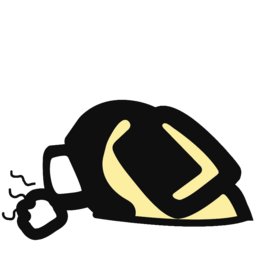
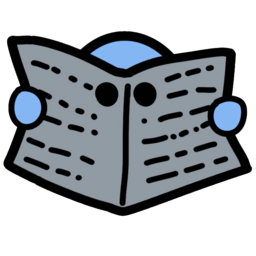
The list of what I did is in Plugin.cs
Still just have jack of all assassin not working right. :D

diff --git a/JAM/Roles/Crewmate/MicromanagerRole.cs b/JAM/Roles/Crewmate/MicromanagerRole.cs
@@ -128,7 +128,7 @@ public sealed class MicromanagerRole(IntPtr cppPtr) : CrewmateGhostRole(cppPtr),
             return false;
         }
 
-        if (opts.MicromanagerCanBeClickedBy == MicromanagerRoleClickableType.NonCrew && PlayerControl.LocalPlayer.Data.Role.IsCrewmate())
+        if (opts.MicromanagerCanBeClickedBy == MicromanagerRoleClickableType.NonCrew && PlayerControl.LocalPlayer.IsCrewmate())
         {
             return false;
         }
@@ -242,7 +242,7 @@ public sealed class MicromanagerRole(IntPtr cppPtr) : CrewmateGhostRole(cppPtr),
         }
 
         var crewPlayers = PlayerControl.AllPlayerControls.ToArray().Where(x => 
-            x && x != Player && x.Data != null && x.IsCrewmate() &&
+            x && x != Player && x.Data != null && x.IsCrewmate() && !x.HasModifier<AllianceGameModifier>() &&
                 opts.MicromanagerManagesCrewTasks switch
                 {
                     MicromanagerRoleCrewType.AliveCrew => !x.Data.IsDead,
@@ -283,8 +283,6 @@ public sealed class MicromanagerRole(IntPtr cppPtr) : CrewmateGhostRole(cppPtr),
 
         HudManager.Instance.ShowTaskComplete();
 
-        RpcCompleteTask(randomCrew, randomTask.Id);
-
         var sb = new StringBuilder();
         randomTask.AppendTaskText(sb);
 
@@ -301,8 +299,10 @@ public sealed class MicromanagerRole(IntPtr cppPtr) : CrewmateGhostRole(cppPtr),
 
         notif.AdjustNotification();
 
+
+        RpcCompleteTask(randomCrew, randomTask.Id, taskText);
         var targetMessage =
-            $"<b>{microColor.ToTextColor()}The Micromanager completed the</color> {TownOfUsColors.Doomsayer.ToTextColor()}{taskText} </color>{microColor.ToTextColor()}task for you.</color></b>";
+            $"<b>{microColor.ToTextColor()}The Micromanager completed the</color> {TownOfUsColors.Doomsayer.ToTextColor()}{taskText}</color>{microColor.ToTextColor()}task for you.</color></b>";
     }
 
     public override void Initialize(PlayerControl player)
@@ -531,13 +531,11 @@ public sealed class MicromanagerRole(IntPtr cppPtr) : CrewmateGhostRole(cppPtr),
     }
 
     [MethodRpc((uint) JAMRpcCalls.MicromanageTask)]
-    public static void RpcCompleteTask(PlayerControl player, uint taskId)
+    public static void RpcCompleteTask(PlayerControl player, uint taskId, string taskName)
     {
         if (player.AmOwner)
         {
             player.RpcCompleteTask(taskId);
-
-            string taskName = player.Data.FindTaskById(taskId)?.ToString() ?? "Null";
 
             Helpers.CreateAndShowNotification(
                 $"<b>{Colors.Micromanager.ToTextColor()}Your {TownOfUsColors.Doomsayer.ToTextColor()}{taskName}</color> Task Was Completed By The {Colors.Micromanager.ToTextColor()}Micromanager</color>. </color></b>",
@@ -553,7 +551,6 @@ public sealed class MicromanagerRole(IntPtr cppPtr) : CrewmateGhostRole(cppPtr),
     {
         public static void Postfix(ref List<RoleTypes> ___CrewmateGhostRolePool)
         {
-            Info("Meep Moop");
             ___CrewmateGhostRolePool.RemoveAll(x => x == (RoleTypes)RoleId.Get<MicromanagerRole>());
         }
     }

diff --git a/JAM/Modifiers/ConcealedModifier.cs b/JAM/Modifiers/ConcealedModifier.cs
@@ -10,6 +10,7 @@ using TownOfUs.Modifiers;
 using TownOfUs.Modifiers.Game;
 using TownOfUs.Modifiers.Game.Universal;
 using TownOfUs.Modules.Wiki;
+using TownOfUs.Options.Maps;
 using TownOfUs.Utilities;
 using TownOfUs.Utilities.Appearances;
 using UnityEngine;
@@ -23,8 +24,7 @@ public sealed class ConcealedModifier : UniversalGameModifier, IWikiDiscoverable
     public override string ModifierName => "Concealed";
      
     public override string IntroInfo => "You Are Harder To See";
-
-     
+    
     public override string GetDescription()
     {
         return "You Are Slightly Less Opaque";
@@ -45,7 +45,18 @@ public sealed class ConcealedModifier : UniversalGameModifier, IWikiDiscoverable
      
     public override bool IsModifierValidOn(RoleBehaviour role)
     {
-        return !role.CanVent && base.IsModifierValidOn(role);
+        return base.IsModifierValidOn(role) && !role.Player.HasModifier<ShyModifier>();
+    }
+    [HarmonyPatch(typeof(ShyModifier), nameof(ShyModifier.IsModifierValidOn))]
+    public static class MakeShyExclusive
+    {
+        public static void Postfix(RoleBehaviour role, ref bool __result)
+        {
+            if (role.Player.HasModifier<ConcealedModifier>())
+            {
+                __result = false;
+            }
+        }
     }
 
     public override ModifierUiConfiguration Configuration
@@ -76,13 +87,29 @@ public sealed class ConcealedModifier : UniversalGameModifier, IWikiDiscoverable
     {
         base.Update();
 
-        if (!Player.Data.IsDead)
+        bool commsActive;
+
+        switch ((ExpandedMapNames)GameOptionsManager.Instance.currentGameOptions.MapId)
+        {
+            case ExpandedMapNames.MiraHq:
+            case ExpandedMapNames.Fungle:
+                var hqComms = ShipStatus.Instance.Systems[SystemTypes.Comms]
+                    .Cast<HqHudSystemType>();
+
+                commsActive = hqComms.IsActive;
+                break;
+
+            default:
+                var hudComms = ShipStatus.Instance.Systems[SystemTypes.Comms]
+                    .Cast<HudOverrideSystemType>();
+
+                commsActive = hudComms.IsActive;
+                break;
+        }
+
+        if (!Player.Data.IsDead && !(commsActive && TownOfUsMapOptions.IsCamoCommsOn()))
         {
             ShyModifier.SetVisibility(Player, OptionGroupSingleton<ConcealedOptions>.Instance.ConcealedOpacity);
-        }
-        else
-        {
-            ShyModifier.SetVisibility(Player, 1, OptionGroupSingleton<ConcealedOptions>.Instance.ConcealName);
         }
     }
 }

diff --git a/JAM/Modifiers/Role Modifiers/DeceiverShieldModifiers.cs b/JAM/Modifiers/Role Modifiers/DeceiverShieldModifiers.cs
@@ -1,4 +1,5 @@
 using HarmonyLib;
+using Il2CppSystem.Web.Util;
 using MiraAPI.Modifiers;
 using MiraAPI.Translation;
 using MiraAPI.Utilities.Assets;
@@ -42,40 +43,12 @@ public sealed class DeceiverMedicShield : BaseShieldModifier, IAnimated
     public override void Update()
     {
         Shield.SetActive(!Player.Data.IsDead);
-    }
-}
 
-public sealed class DeceiverWardenShield : BaseShieldModifier, IAnimated
-{
-    public override string ModifierName => "Fortified";
-    public override string ShieldDescription => "You are fortified by a Warden!\nNo one can interact with you.";
-    public override LoadableAsset<Sprite>? ModifierIcon => TouRoleIcons.Warden;
-    public override bool HideOnUi => false;
-    public override Color FreeplayFileColor => new Color32(100, 220, 100, byte.MaxValue);
-    public GameObject Shield { get; set; }
-    public bool IsVisible { get; set; } = true;
-    public void SetVisible()
-    {
-    }
-    public override void OnActivate()
-    {
-        Shield = AnimStore.SpawnAnimBody(base.Player, TouAssets.WardenFort.LoadAsset(), false, -1.1f, -0.1f, 1.5f);
-    }
-    public override void OnDeath(DeathReason reason)
-    {
-        base.OnDeath(reason);
-        Shield?.SetActive(false);
-        ModifierComponent?.RemoveModifier(this);
-    }
-    public override void OnDeactivate()
-    {
-        if (Shield != null)
+        DeceiverRole.confuseRole = false;
+        if(!MiraAPI.Utilities.Helpers.GetAlivePlayers().Any(p => p.Data.Role is DeceiverRole))
         {
-            Shield.Destroy();
+            ModifierComponent.RemoveModifier(this);
         }
-    }
-    public override void Update()
-    {
-        Shield.SetActive(!Player.Data.IsDead);
+        DeceiverRole.ReConfuse();
     }
 }

diff --git a/JAM/Plugin.cs b/JAM/Plugin.cs
@@ -80,23 +80,25 @@ public enum JAMRpcCalls : uint
     MicromanageTask = 2
 }
 
+// Jack Of All assassin continues game even when all crew
+
+// Concealed looks odd... (icon in-game)
+
 // =============== FIXES ===============
 /*
- * Added Fake Shield Ability To Deceiver
- * Bounty Target No Longer Shows Up In Win/Loss Screen
- * Removed Zombie Alliance Modifier
- * Bounty Reward Modifier No Longer Shows Up In The Wiki
- * Made Bounty Target Modifier Hidden
- * Zombies No Longer Win With Crew Without The Alliance Modifier
- * Fixed Role Option Description Text (RoleMedDescription) For Roles
- * Changed Micromanager To Use An RPC Call Instead Of A Modifier
- * Made This Mod's Neutrals Win/Lose Correctly When Dead
- * Added Concealed Modifier
- * Gave Bounty Target A Speed Boost
- * Adjusted Micromanager To Work Better
- * Fixed Bounty Reveal Modifier
- * Made it so 100% on Bounty Rewards Works Correctly
- * Micromanager No Longer Spawns On Crewmate Death
- * Jack Of All Can No Longer Get Circumvent
- * Added Custom Intro Sounds For Jack Of All and Time Keeper
+ * Fixed Bounty Target Speed Modifier
+ * Fixed Concealed Options Appearance
+ * Micromanager Can No Longer Manager Alliance Modified Crew
+ * Zombies Can No Longer Call Meetings
+ * Zombie Leader Is Now Guessable Until Final 3
+ * Made Concealed And Shy Mutually Exclusive
+ * You Are No Longer Concealed During Camo Comms
+ * Adjusted Wording In Bounty Hunter Options
+ * Micromanager Task Completion Names Look Right
+ * Changed Gossip Sprite
+ * Slighty Brightened Bounty Hunter's Color
+ * Deceiver Shield Goes Away When Deceiver Is Dead Now
+ * Changed Bounty Hunter Sprite
+ * Dead no longer get bounty hunting button
+ * Removed Warden Shield From Deceiver Shields
 */

diff --git a/JAM/Roles/Neutral/ZombieRoles.cs b/JAM/Roles/Neutral/ZombieRoles.cs
@@ -87,6 +87,7 @@ public class ZombieRole(IntPtr cppPtr) : NeutralRole(cppPtr), ITownOfUsRole, IWi
         }
 
         Player.RpcAddModifier<ZombieRevealedModifier>();
+        Player.RemainingEmergencies = 0;
     }
 
     public bool WinConditionMet()
@@ -196,7 +197,7 @@ public sealed class ZombieLeaderRole(IntPtr cppPtr) : NeutralRole(cppPtr), ITown
     public Color RoleColor => Colors.Zombie;
     public ModdedRoleTeams Team => ModdedRoleTeams.Custom;
     public RoleBehaviour AppearAs => (RoleBehaviour)RoleId.Get<ZombieLeaderRole>();
-    public bool IsGuessable => PlayerControl.LocalPlayer != null && PlayerControl.LocalPlayer.Data.Role is VigilanteRole;
+    public bool IsGuessable => Helpers.GetAlivePlayers().Count > 3;
     public CustomRoleConfiguration Configuration => new(this)
     {
         IconTmp = TmpSpriteUtils.CreateSpriteAsset(JamRoleIcons.ZombieLeader.LoadAsset(), "JackOfAllMods.Roles.Neutral.ZombieLeader", 1.45f),
@@ -216,7 +217,7 @@ public sealed class ZombieLeaderRole(IntPtr cppPtr) : NeutralRole(cppPtr), ITown
     float timer;
     public void Update()
     {
-        if(Player == null || Player.Data.IsDead) return;
+        if (Player == null || Player.Data.IsDead) return;
 
         List<DeadBody> bodiesInRange = Helpers.GetNearestDeadBodies(Player.transform.position, ShipStatus.Instance.MaxLightRadius * 100, Helpers.CreateFilter(Constants.NotShipMask));
         bodiesInRange.RemoveAll(b => !(MiscUtils.PlayerById(b.ParentId).GetRoleWhenAlive() is ZombieRole));

diff --git a/JAM/Buttons/Impostor/DeceiverShieldButton.cs b/JAM/Buttons/Impostor/DeceiverShieldButton.cs
@@ -38,16 +38,16 @@ public sealed class DeceiverShieldButton : TownOfUsRoleButton<DeceiverRole, Play
             Error("Deceiver Shield: Target is null");
             return;
         }
-        else if (MiraAPI.Utilities.Helpers.GetAlivePlayers().Any(p => p.HasModifier<DeceiverMedicShield>() || p.HasModifier<DeceiverWardenShield>()))
+        else if (MiraAPI.Utilities.Helpers.GetAlivePlayers().Any(p => p.HasModifier<DeceiverMedicShield>()))
         {
-            Error("There Is Already A Shielded Target: " + Helpers.GetAlivePlayers().FirstOrDefault(p => p.HasModifier<DeceiverMedicShield>() || p.HasModifier<DeceiverWardenShield>())?.Data.PlayerName);
+            Error("There Is Already A Shielded Target: " + Helpers.GetAlivePlayers().FirstOrDefault(p => p.HasModifier<DeceiverMedicShield>())?.Data.PlayerName);
             return;
         }
 
-        DeceiverRole.RpcDeceiverShield(PlayerControl.LocalPlayer, Target, UnityEngine.Random.Range(0f, 1f) < 0.9f);
+        DeceiverRole.RpcDeceiverShield(PlayerControl.LocalPlayer, Target);
     }
     public override bool CanUse()
     {
-        return base.CanUse() && !MiraAPI.Utilities.Helpers.GetAlivePlayers().Any(p => p.HasModifier<DeceiverMedicShield>() || p.HasModifier<DeceiverWardenShield>());
+        return base.CanUse() && !MiraAPI.Utilities.Helpers.GetAlivePlayers().Any(p => p.HasModifier<DeceiverMedicShield>());
     }
 }

diff --git a/JAM/Roles/Impostor/DeceiverRole.cs b/JAM/Roles/Impostor/DeceiverRole.cs
@@ -117,14 +117,11 @@ public sealed class DeceiverRole(IntPtr cppPtr) : ImpostorRole(cppPtr), ITownOfU
     }
 
     [MethodRpc((uint)JAMRpcCalls.DeceiverShield)]
-    public static void RpcDeceiverShield(PlayerControl deceiver, PlayerControl target, bool medicShield)
+    public static void RpcDeceiverShield(PlayerControl deceiver, PlayerControl target)
     {
         if(PlayerControl.LocalPlayer == deceiver || PlayerControl.LocalPlayer == target)
         {
-            if (medicShield)
-                target.AddModifier<DeceiverMedicShield>();
-            else
-                target.AddModifier<DeceiverWardenShield>();
+            target.AddModifier<DeceiverMedicShield>();
         }
     }
 
@@ -255,7 +252,7 @@ public sealed class DeceiverRole(IntPtr cppPtr) : ImpostorRole(cppPtr), ITownOfU
         }
     }
 
-    static void ReConfuse()
+    public static void ReConfuse()
     {
         if (!hasGameStarted) return;
         if (PlayerControl.LocalPlayer.Data.Role.IsImpostor() || PlayerControl.LocalPlayer.Data.IsDead || PlayerControl.LocalPlayer.Data.Role is IGhostRole) return;

diff --git a/JAM/Options/Modifiers/VentableOptions.cs b/JAM/Options/Modifiers/VentableOptions.cs
@@ -12,14 +12,11 @@ namespace JAM.Options.Modifiers.Game.Universal;
 
 public sealed class VentableOptions : AbstractOptionGroup<VentableModifier>
 {
-        public override string GroupName => "Ventable Options";
+    public override string GroupName => "Ventable Options";
     
-        [ModdedNumberOption("Ventable Count", 0f, 5f, 1f)]
+    [ModdedNumberOption("Ventable Count", 0f, 5f, 1f)]
     public float VentableCount { get; set; } = 1f;
 
-        [ModdedNumberOption("Ventable Chance", 0f, 100f, 10f, MiraNumberSuffixes.Percent)]
+    [ModdedNumberOption("Ventable Chance", 0f, 100f, 10f, MiraNumberSuffixes.Percent)]
     public float VentableChance { get; set; } = 50f;
-
-        [ModdedNumberOption("Max Vents", 0f, 100f, 1f, MiraNumberSuffixes.None, null, true)]
-    public float MaxVents { get; set; } = 0f;
 }

diff --git a/JAM/Colors.cs b/JAM/Colors.cs
@@ -13,7 +13,7 @@ public static class Colors
 
     //Neutral Colors
     public static Color Scrubber => TownOfUsColors.UseBasic ? Palette.CrewmateBlue : new Color32(97, 147, 212, byte.MaxValue);
-    public static Color BountyHunter => TownOfUsColors.UseBasic ? Palette.CrewmateBlue : new Color32(10, 47, 14, byte.MaxValue);
+    public static Color BountyHunter => TownOfUsColors.UseBasic ? Palette.CrewmateBlue : new Color32(24, 102, 31, byte.MaxValue);
     public static Color TimeKeeper => TownOfUsColors.UseBasic ? Palette.CrewmateBlue : new Color32(230, 242, 200, byte.MaxValue);
     public static Color Zombie => TownOfUsColors.UseBasic ? Palette.CrewmateBlue : new Color32(84, 192, 113, byte.MaxValue);
 

diff --git a/JAM/Assets/JamAssets.cs b/JAM/Assets/JamAssets.cs
@@ -8,6 +8,7 @@ public static class JamAssets
     private const string ShortPath = "JAM.Resources.Other";
     // K2 Buttons & Assets
     public static LoadableAsset<Sprite> BountyTarget { get; } = new LoadableResourceAsset($"{ShortPath}.Bounty Target.png", 200);
+    public static LoadableAsset<Sprite> GossipOverhear { get; } = new LoadableResourceAsset($"{ShortPath}.GossipAbility.png", 200);
     // Nulls Buttons & Assets
     public static LoadableAsset<Sprite> CamouflagerButton { get; } = new LoadableResourceAsset($"{ShortPath}.CamouflagerButton.png", 200);
     public static LoadableAsset<Sprite> MorticianAbility { get; } = new LoadableResourceAsset($"{ShortPath}.MorticianAbility.png", 200);

diff --git a/JAM/Options/Roles/Neutral/BountyHunterOptions.cs b/JAM/Options/Roles/Neutral/BountyHunterOptions.cs
@@ -34,7 +34,7 @@ public sealed class BountyHunterOptions : AbstractOptionGroup<BountyHunterRole>
     public float GiveVentable { get; set; } = 10f;
     [ModdedNumberOption("Extra Vote Weight", 0f, 100f, 5f, MiraNumberSuffixes.Percent)]
     public float GiveExtraVote { get; set; } = 10f;
-    [ModdedNumberOption("Reveal Role Weight (CK Only)", 0f, 100f, 5f, MiraNumberSuffixes.Percent)]
+    [ModdedNumberOption("Reveal Role Weight (Crew Only)", 0f, 100f, 5f, MiraNumberSuffixes.Percent)]
     public float RevealCKRole { get; set; } = 10f;
     [ModdedNumberOption("Double Shot Weight", 0f, 100f, 5f, MiraNumberSuffixes.Percent)]
     public float GiveDblShot { get; set; } = 10f;

diff --git a/JAM/Modifiers/Role Modifiers/BountyTargetModifier.cs b/JAM/Modifiers/Role Modifiers/BountyTargetModifier.cs
@@ -148,12 +148,14 @@ public sealed class BountyTargetModifier : BaseModifier
     }
 
     [HarmonyPatch(typeof(LogicOptions), nameof(LogicOptions.GetPlayerSpeedMod))]
-    [HarmonyPostfix]
-    public static void TargetSpeedPatch(PlayerControl pc, ref float __result)
+    public static class TargetSpeedPatch
     {
-        if (pc.HasModifier<BountyTargetModifier>())
+        public static void Postfix(PlayerControl pc, ref float __result)
         {
-            __result *= 2;
+            if (pc.HasModifier<BountyTargetModifier>())
+            {
+                __result *= 2;
+            }
         }
     }
 }
